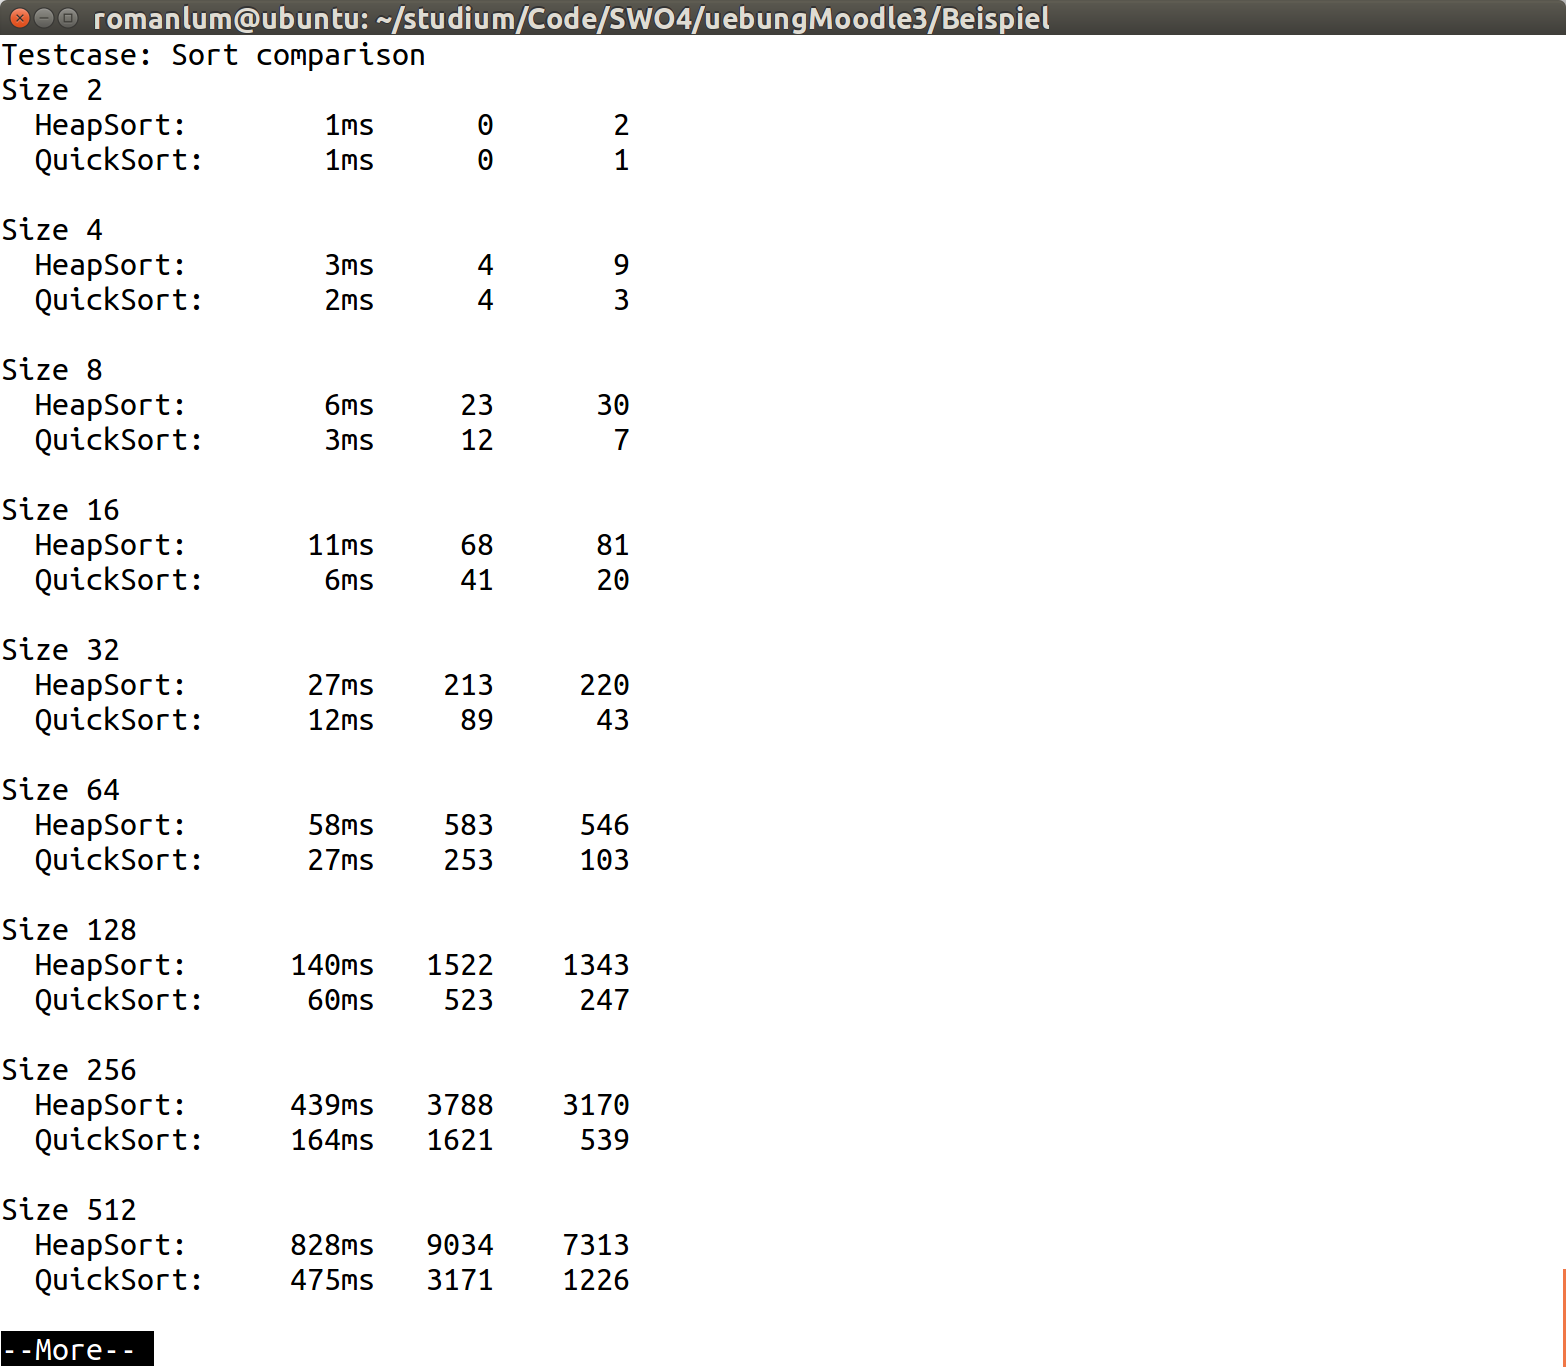
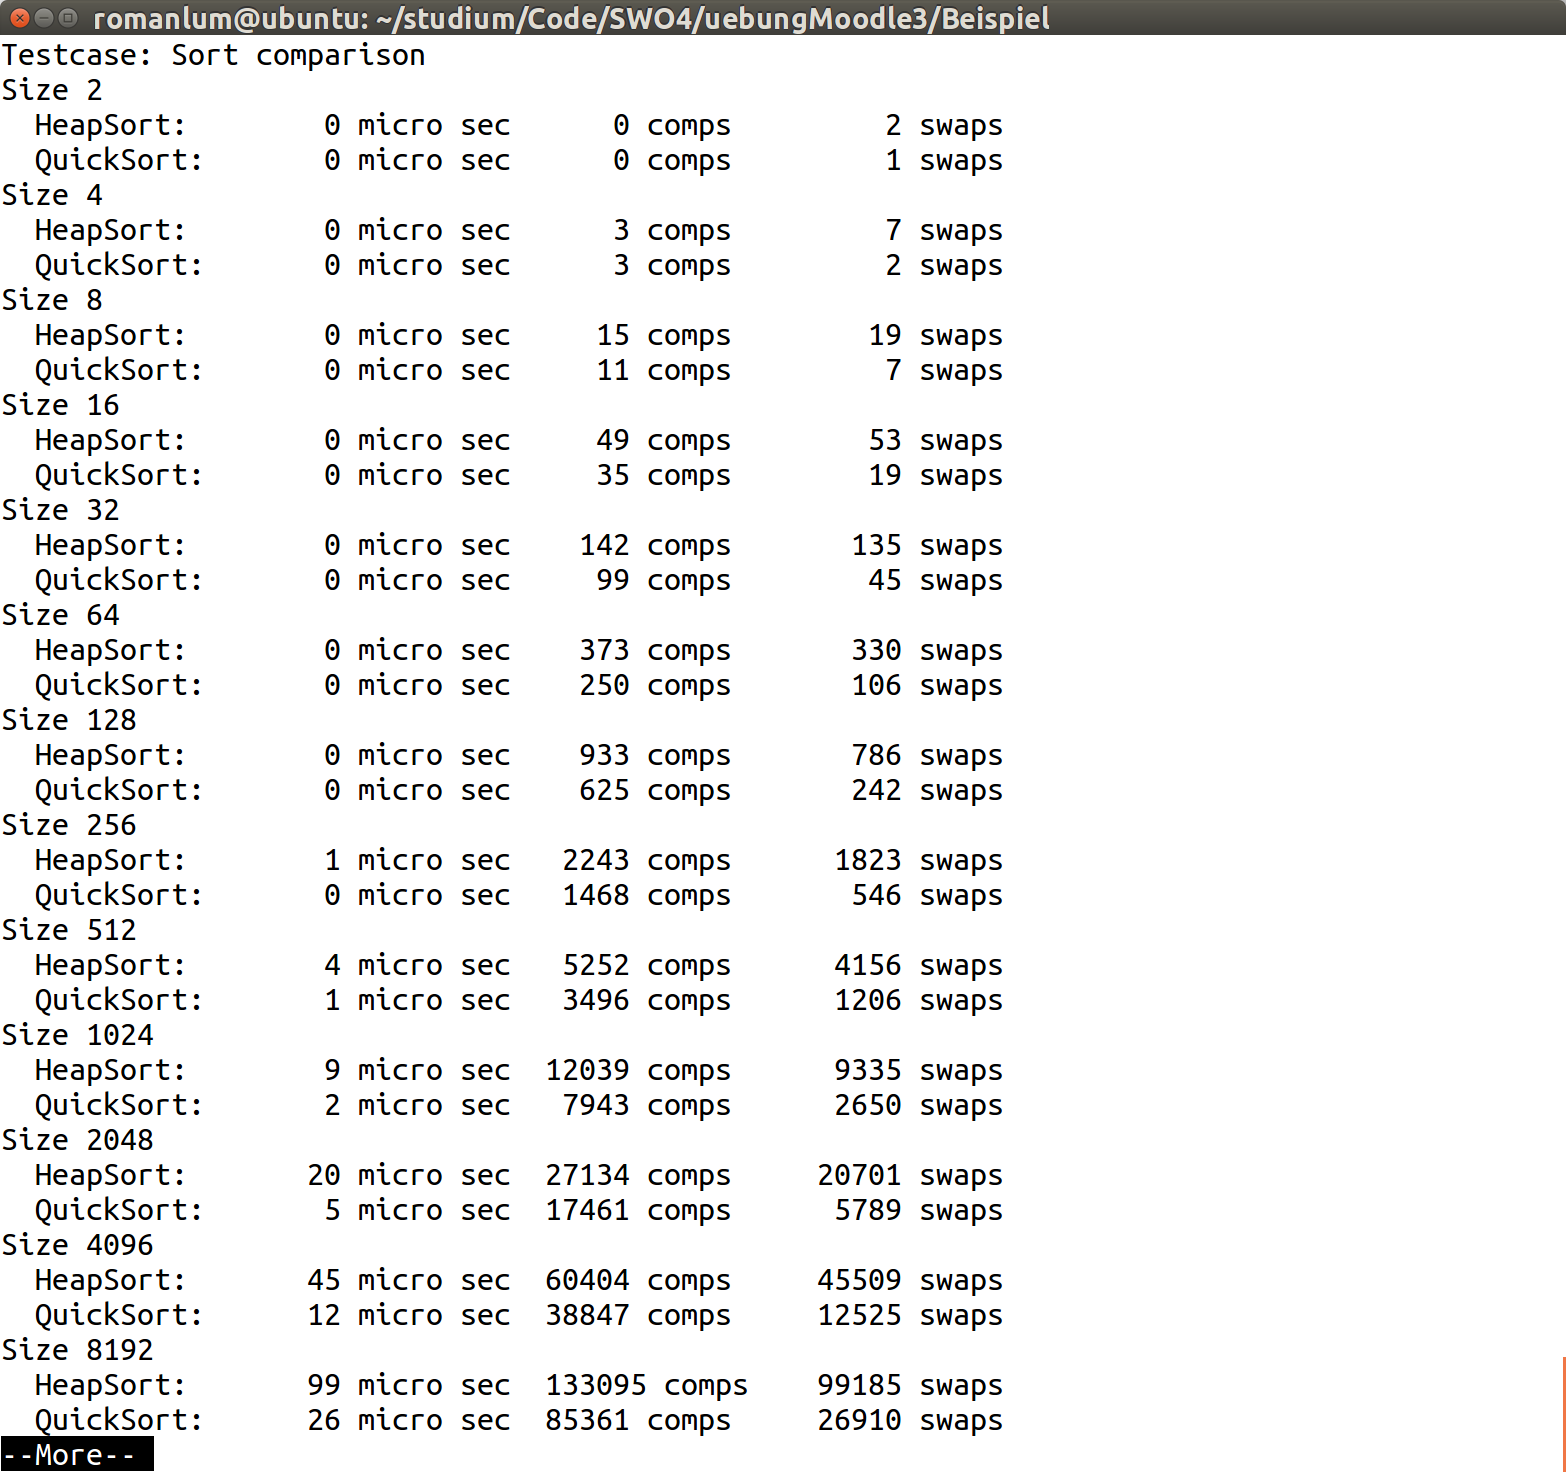
[SWO4 - practice 03] finished statistic

diff --git a/SWO4/uebungMoodle3/Beispiel/at/lumetsnet/swo/ue3/SortTest.java b/SWO4/uebungMoodle3/Beispiel/at/lumetsnet/swo/ue3/SortTest.java
@@ -1,6 +1,8 @@
 package at.lumetsnet.swo.ue3;
 
+import java.util.ArrayList;
 import java.util.Arrays;
+import java.util.List;
 import java.util.Random;
 import java.util.concurrent.TimeUnit;
 
@@ -47,37 +49,84 @@ public class SortTest {
     data = new int[]{9,9,9,9,6,2,6,100,2,2};
     sorter.sort(data);
     System.out.println(sorter.getInstrumentationData());
-    
-    
+       
   }
   
+  /***
+   * Compares heapsort and quicksort by using array lengths
+   * from 2 to 70000.
+   * For every size the sort is done 100 times and the average
+   * is used.
+   */
   private static void sortComparison() {
     System.out.println("Testcase: Sort comparison");
     int currentPow = 1;
     int currentSize = 2;
     HeapSort heapSort = new HeapSort();
     QuickSort quickSort = new QuickSort();
-    while(currentSize < 50000) {
-      int[] data = getData(currentSize);
-      heapSort.sort(data.clone());
-      quickSort.sort(data);
-      System.out.printf("Size %1d\n",data.length);
-      System.out.printf("  HeapSort:\t%4dms\t%5d\t%5d\n",
-          TimeUnit.MICROSECONDS.convert(heapSort.getInstrumentationData().getSortTime(),
-              TimeUnit.NANOSECONDS),
-          heapSort.getInstrumentationData().getComparisonCount(),
-          heapSort.getInstrumentationData().getSwapCount());
-      System.out.printf("  QuickSort:\t%4dms\t%5d\t%5d\n",
-          TimeUnit.MICROSECONDS.convert(quickSort.getInstrumentationData().getSortTime(),
-              TimeUnit.NANOSECONDS),
-          quickSort.getInstrumentationData().getComparisonCount(),
-          quickSort.getInstrumentationData().getSwapCount());
-      System.out.println();
+    
+    while(currentSize < 70000) {
+      ArrayList<InstrumentationData> hData = new ArrayList<InstrumentationData>(100);
+      ArrayList<InstrumentationData> qData = new ArrayList<InstrumentationData>(100);
+      
+      //do the sort 100 times
+      for(int i = 0; i < 100; i++) {
+        
+        int[] data = getData(currentSize);
+        //Copy the array to have equal test data for both sorts
+        heapSort.sort(Arrays.copyOf(data,data.length));
+        quickSort.sort(data);
+        hData.add(heapSort.getInstrumentationData());
+        qData.add(quickSort.getInstrumentationData());
+      }
+      
+      
+      System.out.printf("Size %1d\n", currentSize);
+      System.out.printf("  HeapSort:\t%4d micro sec\t%5d comps\t%5d swaps\n",
+          getTimeAverage(hData),
+          getComparisonAverage(hData),
+          getSwapAverage(hData));
+      System.out.printf("  QuickSort:\t%4d micro sec\t%5d comps\t%5d swaps\n",
+          getTimeAverage(qData),
+          getComparisonAverage(qData),
+          getSwapAverage(qData));
       currentPow++;
       currentSize = (int) Math.pow(2, currentPow); 
     }
   }
   
+  /***
+   * Gets the average comparison count of the given data
+   * @param data
+   * @return
+   */
+  private static int getComparisonAverage(List<InstrumentationData> data) {
+    return (int)data.stream().mapToDouble(c ->c.getComparisonCount()).average().getAsDouble();
+  }
+  /***
+   * Gets the average swap count of the given data
+   * @param data
+   * @return
+   */
+  private static int getSwapAverage(List<InstrumentationData> data) {
+    return (int)data.stream().mapToDouble(c ->c.getSwapCount()).average().getAsDouble();
+  }
+  /***
+   * Gets the average time of the given data
+   * @param data
+   * @return
+   */
+  private static long getTimeAverage(List<InstrumentationData> data) {
+    long nsec = (long) data.stream().mapToDouble(c ->c.getSwapCount())
+                                    .average().getAsDouble();
+    return TimeUnit.MICROSECONDS.convert(nsec, TimeUnit.NANOSECONDS);
+  }
+  
+  /***
+   * Gets random test data
+   * @param size
+   * @return
+   */
   private static int[] getData(int size) {
     Random rnd=new Random();
     rnd.setSeed(System.nanoTime());

diff --git a/SWO4/uebungMoodle3/Beispiel/at/lumetsnet/swo/ue3/InstrumentationData.java b/SWO4/uebungMoodle3/Beispiel/at/lumetsnet/swo/ue3/InstrumentationData.java
@@ -44,8 +44,16 @@ public class InstrumentationData {
     return comparisonCount;
   }
   
+  public void setComparisonCount(int comparisonCount) {
+    this.comparisonCount = comparisonCount;
+  }
+  
   public int getSwapCount() {
     return swapCount;
+  }
+  
+  public void setSwapCount(int swapCount) {
+    this.swapCount = swapCount;
   }
 
   public long getSortTime() {

diff --git a/SWO4/uebungMoodle3/Beispiel/at/lumetsnet/swo/ue3/Sorter.java b/SWO4/uebungMoodle3/Beispiel/at/lumetsnet/swo/ue3/Sorter.java
@@ -8,10 +8,6 @@ public abstract class Sorter {
   
   protected InstrumentationData instrumentationData;
   
-  public Sorter() {
-    instrumentationData = new InstrumentationData();
-  }
-  
   /***
    * Sorts the data
    * @param data

diff --git a/SWO4/uebungMoodle3/Ausarbeitung/master.tex b/SWO4/uebungMoodle3/Ausarbeitung/master.tex
@@ -13,6 +13,7 @@
 \usepackage{textcomp}
 \usepackage{pdfpages}
 
+
 \makeatletter
 \renewcommand\minted@pygmentize[2][\jobname.pyg]{
   \def\minted@cmd{pygmentize -l #2 -f latex -F tokenmerge
